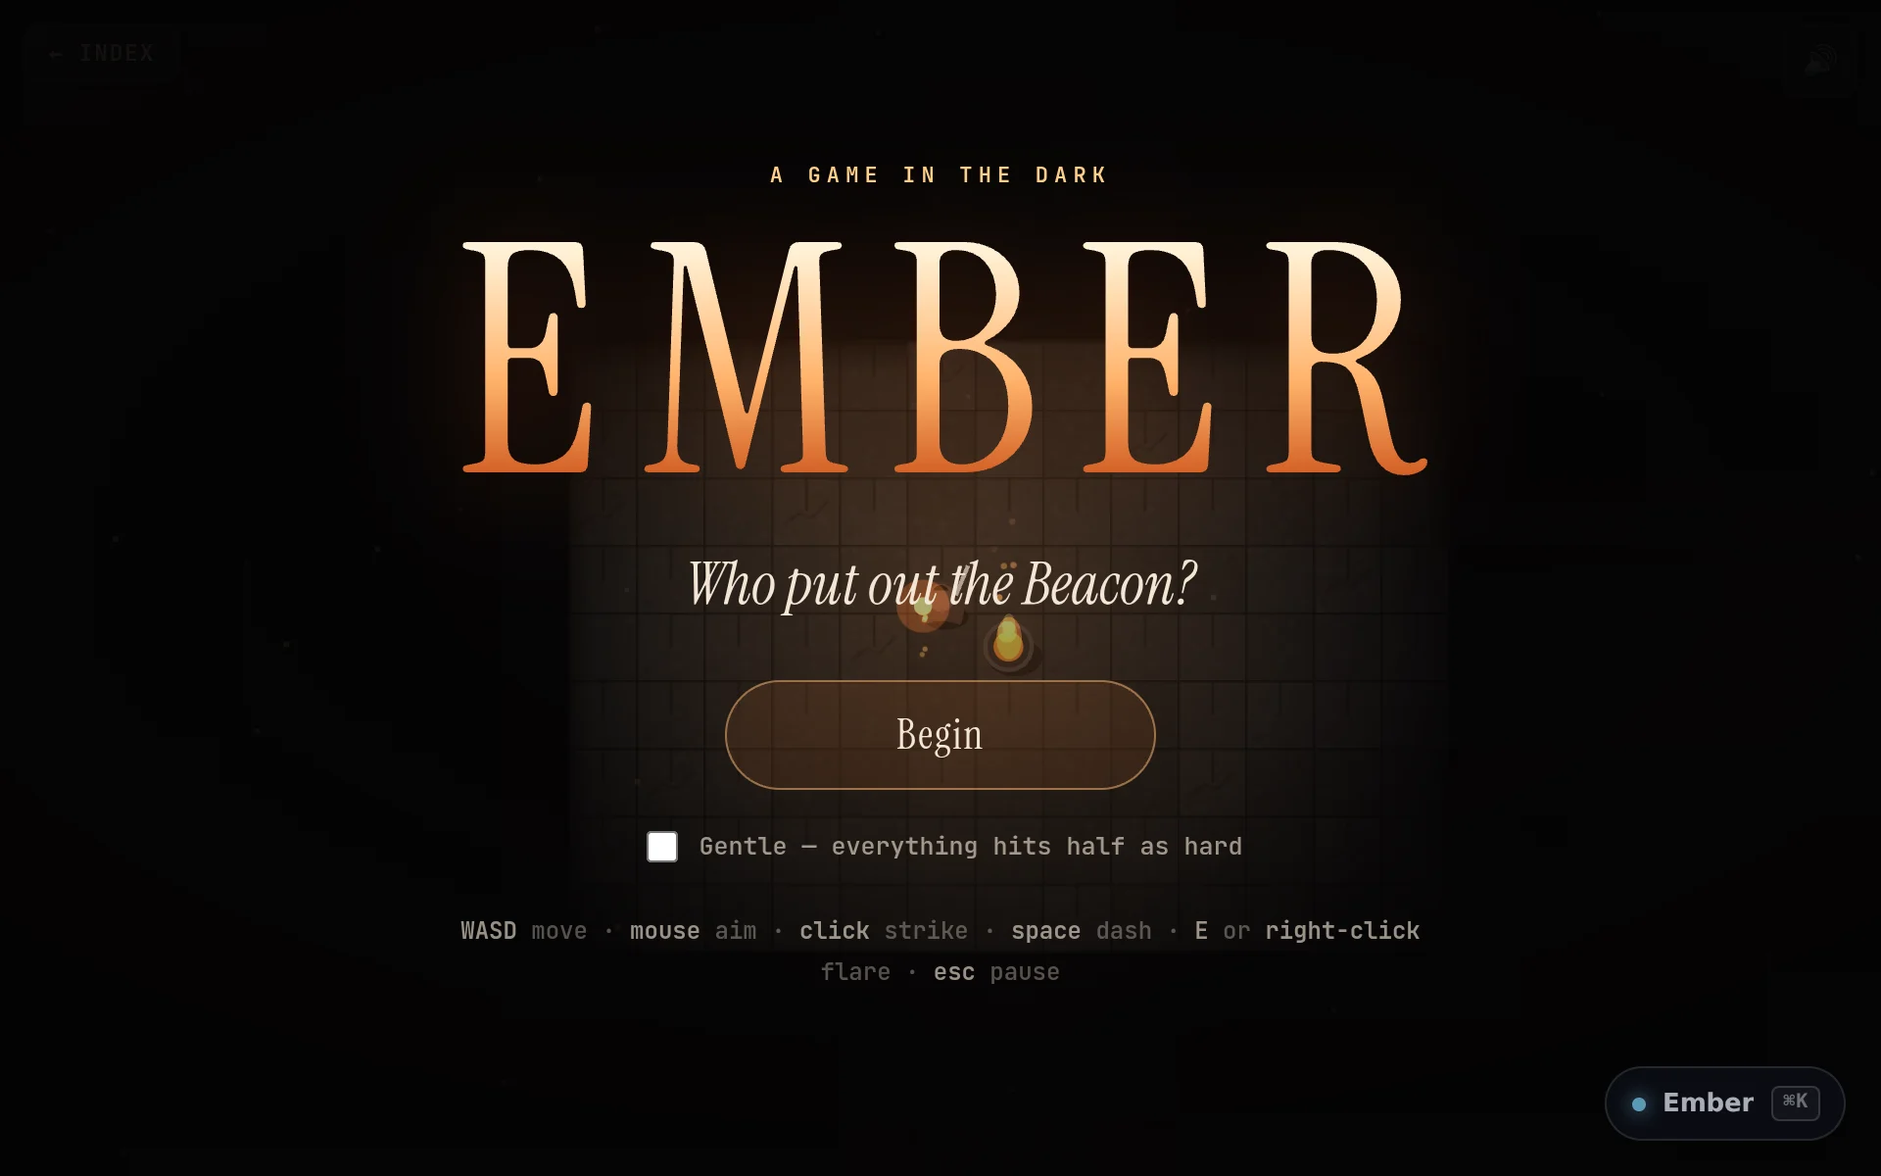
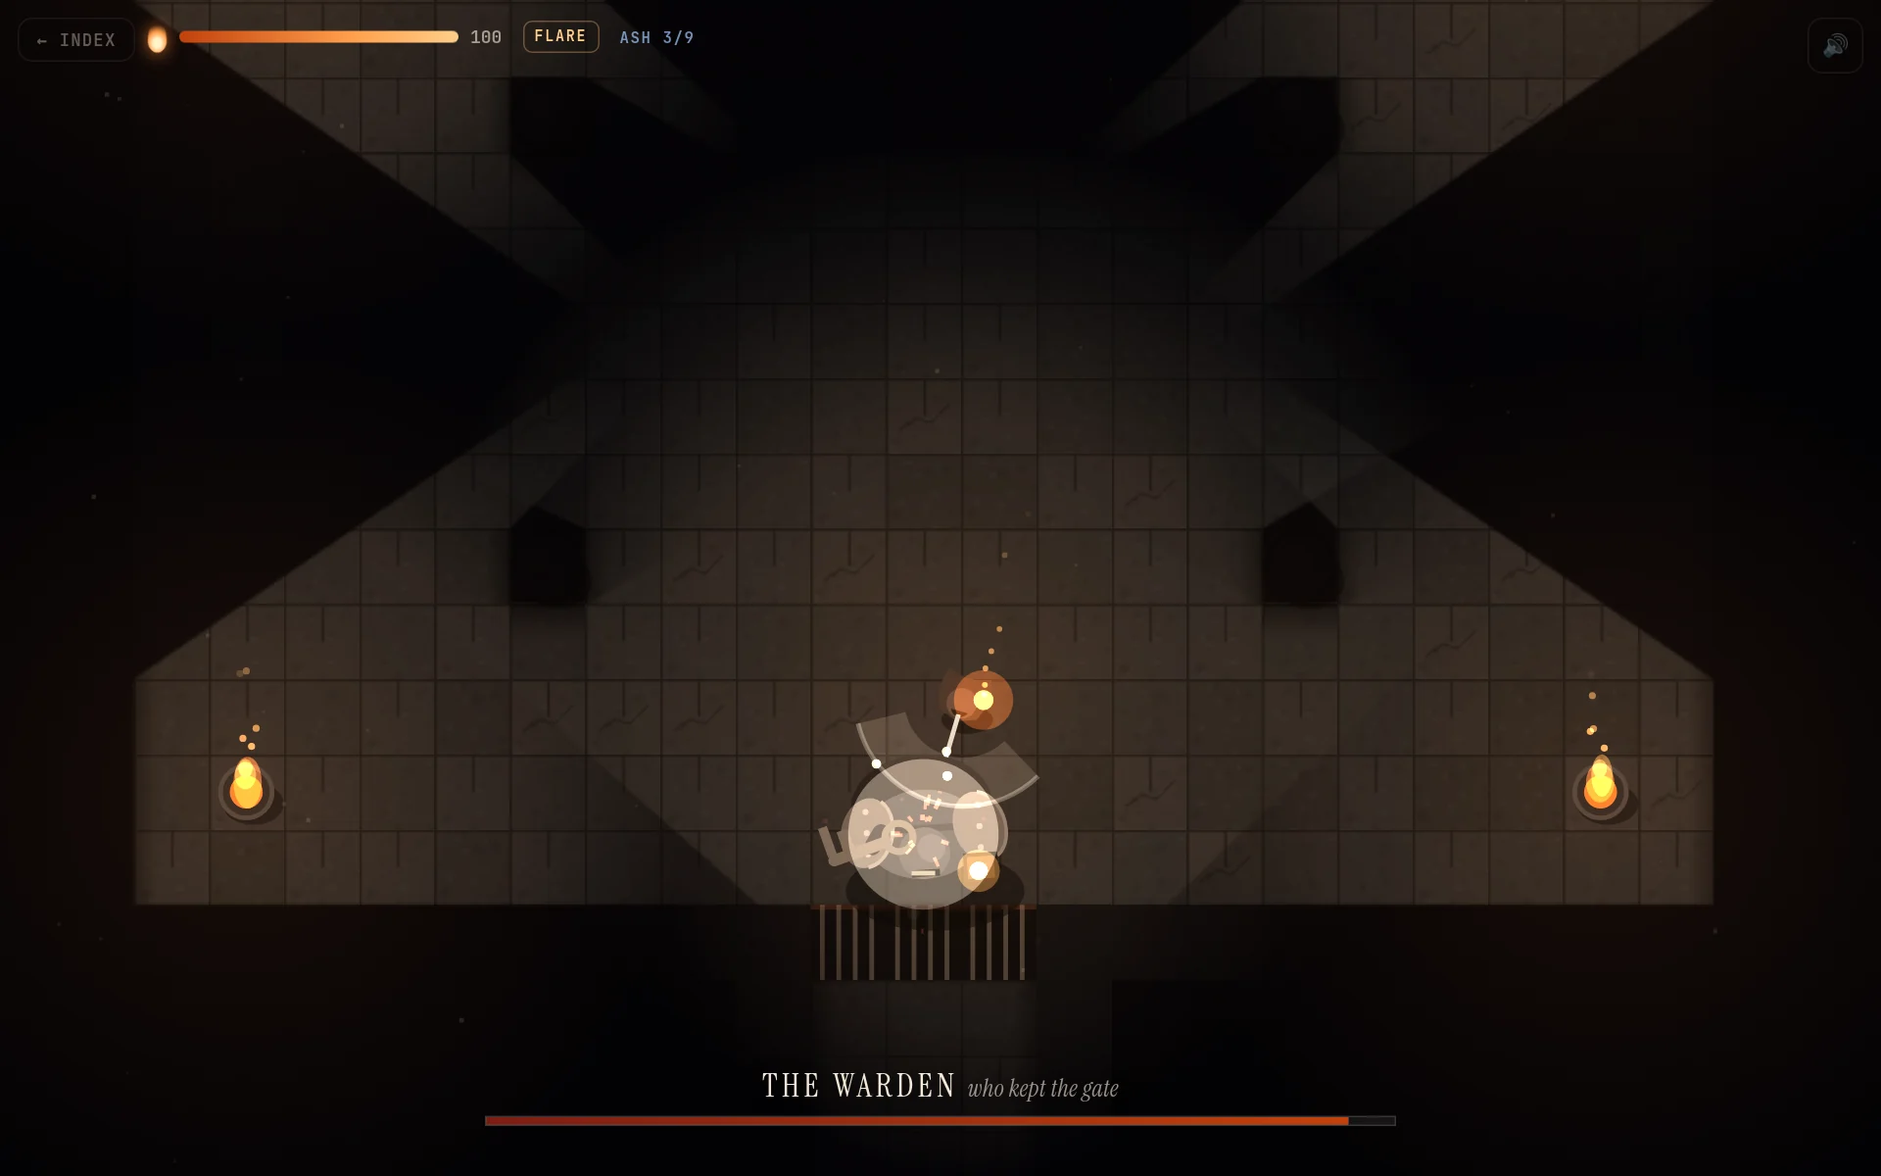
Put the games straight after the places, led by Ember
The front page gets a Games section right after the two case studies,
lit like Ember itself: Ember as a full case study, with how its light,
maps, bosses and fairness tests work, then Minesweeper, Sudoku and
Tether. The playground moves Games & apps up to section 1, right after
the plates, and numbers its figures in page order. The games' gallery
screenshots now show them being played rather than their title screens.

A test keeps the games section straight after the work, led by Ember,
and counting every game.

diff --git a/playground.html b/playground.html
@@ -218,7 +218,7 @@
   button.quiet-link { background: none; border: 0; border-bottom: 1px solid var(--rule-2); cursor: pointer; padding: 0 0 2px; }
   #surprise .face { min-width: 17ch; text-align: left; }
 
-  /* ── §1, the four products ──────────────────────────────────────────────
+  /* ── §2, the four products ──────────────────────────────────────────────
      Each one opens on the sentence a client would actually say, then a
      small picture of the thing working, set in the app's own type, then what
      it does in plain English and what was measured. A recruiter should get
@@ -739,9 +739,9 @@
   <nav class="top" aria-label="Sections">
     <a class="brand" href="#top">Playground</a>
     <a class="keep" href="./">&larr; Front page</a>
-    <a href="#work"><span class="sec">&sect;1</span>AI products</a>
-    <a href="#stories"><span class="sec">&sect;2</span>Check these out</a>
-    <a href="#run"><span class="sec">&sect;3</span>Games &amp; apps</a>
+    <a href="#run"><span class="sec">&sect;1</span>Games &amp; apps</a>
+    <a href="#work"><span class="sec">&sect;2</span>AI products</a>
+    <a href="#stories"><span class="sec">&sect;3</span>Check these out</a>
     <a href="#ml"><span class="sec">&sect;4</span>The models</a>
     <a href="#deep"><span class="sec">&sect;5</span>Engineering</a>
     <a class="keep" href="#errata">Errata</a>
@@ -790,7 +790,7 @@
 
   <div class="foot" aria-hidden="true">
     <span class="bar"><i style="background:#00a3e0"></i><i style="background:#e5007e"></i><i style="background:#ffe600"></i><i style="background:#17140f"></i><i style="background:#17140f;opacity:.6"></i><i style="background:#17140f;opacity:.3"></i><i style="background:#cf2e1b"></i></span>
-    <a class="cue" href="#work" tabindex="-1">The four products, then thirty more to play with &darr;</a>
+    <a class="cue" href="#run" tabindex="-1">Thirty pieces to play with, and the four products &darr;</a>
     <span>p. i</span>
   </div>
 </header>
@@ -871,12 +871,28 @@
     </div>
   </aside>
 
-  <!-- ── §1 AI products ──────────────────────────────────────────────────────
+  <!-- ── §1 games and apps ─────────────────────────────────────────────────
+       Straight after the plates: Ember first, then the other games, then the
+       small apps. -->
+  <section class="section" id="run">
+    <header>
+      <div class="runhead"><span class="no">&sect; 1</span><span>Games &amp; apps</span><span class="nm">seventeen figures</span></div>
+      <h2>Things to put your <em>hands on</em></h2>
+      <p class="lede">
+        Games first, starting with the long one, then small apps you would actually use, then
+        physics you can put your finger in and one horror story. <b>After Ember, nothing here has
+        a menu or a tutorial</b>: the first ten seconds teach you the rest.
+      </p>
+    </header>
+    <div class="figs" id="toys" style="--min:330px"></div>
+  </section>
+
+  <!-- ── §2 AI products ──────────────────────────────────────────────────────
        The four products. Each one opens on the sentence a client would say,
        because that is where every real project starts. -->
   <section class="section" id="work" style="--accent: 207,46,27">
     <header>
-      <div class="runhead"><span class="no">&sect; 1</span><span>AI products</span><span class="nm">four products</span></div>
+      <div class="runhead"><span class="no">&sect; 2</span><span>AI products</span><span class="nm">four products</span></div>
       <h2>Four things a business <em>might need</em></h2>
       <p class="lede">
         Each one starts from a sentence somebody at work might say, and ends as working software &mdash;
@@ -989,8 +1005,8 @@
     </div>
   </section>
 
-  <!-- ── fig. 1 ──────────────────────────────────────────────────────────────
-       The contact sheet. Built by script from the atlas, so it can never list
+  <!-- ── the contact sheet ───────────────────────────────────────────────────
+       Everything that is not a product. Built by script from the atlas, so it can never list
        something the navigator does not. -->
   <figure class="fig1" id="sheet">
     <div class="sheet" id="film">
@@ -998,7 +1014,7 @@
       <svg class="grease" id="grease" aria-hidden="true"></svg>
     </div>
     <figcaption>
-      <span class="fn">Fig. 1</span>
+      <span class="fn" data-fig>Fig. 1</span>
       <span>Contact sheet. Thirty more things I built for fun and to learn, every one of them running
       &mdash; games along the top, the engineering at the bottom, my picks in grease pencil, and
       <b id="liveCount">&hellip;</b> of them running as you read this.
@@ -1006,10 +1022,10 @@
     </figcaption>
   </figure>
 
-  <!-- ── §2 stories ──────────────────────────────────────────────────────── -->
+  <!-- ── §3 stories ──────────────────────────────────────────────────────── -->
   <section class="section" id="stories" style="--accent: 255,209,102">
     <header>
-      <div class="runhead"><span class="no">&sect; 2</span><span>Check these out</span><span class="nm">two figures</span></div>
+      <div class="runhead"><span class="no">&sect; 3</span><span>Check these out</span><span class="nm">two figures</span></div>
       <h2>Two to get <em>lost in</em></h2>
       <p class="lede">
         Off the clock: a murder you solve by looking at things, and a short story drawn from
@@ -1044,20 +1060,6 @@
         </div>
       </a>
     </div>
-  </section>
-
-  <!-- ── §3 games and apps ───────────────────────────────────────────────── -->
-  <section class="section" id="run">
-    <header>
-      <div class="runhead"><span class="no">&sect; 3</span><span>Games &amp; apps</span><span class="nm">seventeen figures</span></div>
-      <h2>Things to put your <em>hands on</em></h2>
-      <p class="lede">
-        Games first, starting with the long one, then small apps you would actually use, then
-        physics you can put your finger in and one horror story. <b>After Ember, nothing here has
-        a menu or a tutorial</b>: the first ten seconds teach you the rest.
-      </p>
-    </header>
-    <div class="figs" id="toys" style="--min:330px"></div>
   </section>
 
   <!-- ── §4 inside the models ────────────────────────────────────────────── -->
@@ -1217,7 +1219,7 @@
       <li class="reveal">
         <span class="en">E3</span>
         <div>
-          <p class="where"><a href="play/sandbox/index.html">Sandbox</a> &middot; &sect;3</p>
+          <p class="where"><a href="play/sandbox/index.html">Sandbox</a> &middot; &sect;1</p>
           <p class="for"><i>For</i> <s>an hourglass</s> <i>read</i> <ins>an X</ins></p>
           <p class="why">It leaked sand out of its sides, because it had been drawn as two crossed lines rather than a funnel.</p>
           <p class="how">Caught by <b>looking at it</b></p>
@@ -1226,7 +1228,7 @@
       <li class="reveal" style="--d:70ms">
         <span class="en">E4</span>
         <div>
-          <p class="where"><a href="play/sandbox/index.html">Sandbox</a> &middot; &sect;3</p>
+          <p class="where"><a href="play/sandbox/index.html">Sandbox</a> &middot; &sect;1</p>
           <p class="for"><i>For</i> <s>a forest fire</s> <i>read</i> <ins>one tree</ins></p>
           <p class="why">It burned one tree and went out. The match had been lit on an isolated tree at the edge of the map.</p>
           <p class="how">Caught by <b>looking at it</b></p>
@@ -1235,7 +1237,7 @@
       <li class="reveal">
         <span class="en">E5</span>
         <div>
-          <p class="where"><a href="play/island/index.html">Islandsmith</a> &middot; &sect;3</p>
+          <p class="where"><a href="play/island/index.html">Islandsmith</a> &middot; &sect;1</p>
           <p class="for"><i>For</i> <s>a new island</s> <i>read</i> <ins>a smooth green ellipse</ins></p>
           <p class="why">Every one of them. The noise frequency was so low that the entire map sat inside a single noise cell.</p>
           <p class="how">Caught by <b>looking at it</b></p>
@@ -1262,7 +1264,7 @@
       <li class="reveal" style="--d:70ms">
         <span class="en">E8</span>
         <div>
-          <p class="where"><a href="apps/qr/index.html">QR codes</a> &middot; &sect;3</p>
+          <p class="where"><a href="apps/qr/index.html">QR codes</a> &middot; &sect;1</p>
           <p class="for"><i>For</i> <s>a bug in the encoder</s> <i>read</i> <ins>a bug in the test</ins></p>
           <p class="why">Two checks failed: a capacity of 666 and a format word, both typed from memory. The encoder said 669 and a different word; an independent QR reader had already decoded fifty-six of its codes without a fault. The test was wrong, and was corrected against the published table.</p>
           <p class="how">Caught by <b>not assuming the test is the one that is right</b></p>
@@ -1374,7 +1376,7 @@ const SERIF = '"Instrument Serif", Georgia, serif';
    back was "put the games at the top".
 
    The Room and The Lamplighter are not in this list: they are the two panes
-   of §2. Putting them here as well would be the same thing twice. */
+   of §3. Putting them here as well would be the same thing twice. */
 const TOYS = [
   {
     href: 'play/ember/index.html', tag: 'the epic one', kind: 'game', wide: true,
@@ -1996,9 +1998,9 @@ mount(document.getElementById('mlEvals'), evalsPreview);
 mount(document.getElementById('mlAgents'), agentsPreview);
 
 /* Figures are numbered in the order they are set, the way a book numbers
-   them — the contact sheet is Fig. 1 and everything after counts on from it,
-   so moving a figure renumbers the lot instead of leaving a gap. */
-document.querySelectorAll('[data-fig]').forEach((el, i) => { el.textContent = `Fig. ${i + 2}`; });
+   them, so moving a figure renumbers the lot instead of leaving a gap. The
+   games come first now, so the contact sheet is numbered where it falls. */
+document.querySelectorAll('[data-fig]').forEach((el, i) => { el.textContent = `Fig. ${i + 1}`; });
 
 for (const el of document.querySelectorAll('.section > header')) el.classList.add('reveal');
 watchReveals();

diff --git a/index.html b/index.html
@@ -148,6 +148,18 @@
   .tile .label { margin-top: auto; padding-top: 6px; }
   .more { margin: 30px 0 0; display: flex; flex-wrap: wrap; gap: 10px 26px; }
   .more a { font-weight: 560; text-underline-offset: 4px; }
+  /* ── games ───────────────────────────────────────────────── */
+  /* Lit like Ember: the page goes dark here, and the one warm colour is the flame. */
+  .games {
+    --paper: #0e0b09; --card: #17120f; --ink: #f3ebe1; --soft: #cdbfae; --mute: #a8998a;
+    --rule: #2d2620; --rule-strong: #4a4037; --wash: #1e1814; --accent: #f2a65a; --accent-ink: #1b1007;
+    --shadow: 0 1px 2px rgba(0, 0, 0, .6), 0 30px 70px -28px rgba(242, 166, 90, .28);
+    background: radial-gradient(120% 70% at 22% 0%, #1f1610 0%, var(--paper) 60%); color: var(--ink);
+    border-top: 0; color-scheme: dark;
+  }
+  .games + section { border-top: 0; }
+  .games .shot { box-shadow: 0 0 0 1px var(--rule), var(--shadow); }
+  .games .grid { margin-top: clamp(48px, 7vw, 80px); }
 
   /* ── writing ─────────────────────────────────────────────── */
   .posts { display: grid; grid-template-columns: repeat(auto-fill, minmax(min(100%, 300px), 1fr)); gap: 22px; }
@@ -218,6 +230,7 @@
     <a class="mark" href="./">Mohamed Sucule</a>
     <nav aria-label="Main">
       <a href="#work">Work</a>
+      <a href="#games">Games</a>
       <a href="#writing">Writing</a>
       <a href="#experience">Experience</a>
       <a href="#contact">Contact</a>
@@ -321,11 +334,59 @@
     </div>
   </section>
 
+  <section id="games" class="games" aria-labelledby="games-title">
+    <div class="wrap">
+      <p class="label">Games</p>
+      <h2 id="games-title">Games made of nothing but code</h2>
+      <p class="intro">Eight games run on this site with no engine, no image files and no sound files. Every sprite, shadow and note is made in the browser as you play. Each game has its own tests, and the hardest are played to the end by a program before you see them.</p>
+
+      <article class="case" aria-labelledby="ember-title">
+        <a class="shot" href="play/ember/index.html" tabindex="-1" aria-hidden="true"><img src="atlas/shots/ember-960.webp" srcset="atlas/shots/ember-960.webp 960w, atlas/shots/ember-1920.webp 1920w" sizes="(min-width: 900px) 460px, 92vw" width="960" height="600" alt="" loading="lazy" decoding="async" /></a>
+        <div>
+          <p class="label">Canvas 2D · Web Audio · Generator functions · Gamepad &amp; touch</p>
+          <h3 id="ember-title">Ember</h3>
+          <p class="line">An action game in the dark, where your flame is your light and your life.</p>
+          <ul class="hard">
+            <li>The light is geometry, not a picture: rays go from the flame to every wall corner in reach, and the shape they make is cut out of the dark on every frame, so shadows swing as you move.</li>
+            <li>Every run is a new map: a tree of rooms grown on a 5 × 4 grid, with the boss in the deepest dead end. The three bosses are generator functions, so an attack reads like a script: draw the circle, wait 0.8 s, land it.</li>
+            <li>Fair by construction: the tests play the whole game and fail if any blow lands less than 0.3 s after it was first shown. An autopilot plays from the first room to the ending on every seed.</li>
+          </ul>
+          <div class="proof">
+            <div><b>0.38 s</b><span>the least warning any attack gives, against a rule of 0.3</span></div>
+            <div><b>40</b><span>generated maps checked, every room reachable</span></div>
+            <div><b>20</b><span>tests, with an autopilot that plays to the ending</span></div>
+          </div>
+          <div class="links">
+            <a class="go" href="play/ember/index.html">Play Ember</a>
+            <a href="https://github.com/Mohamed-Sucule/Projects/tree/main/play/ember#readme">How it works</a>
+            <a href="https://github.com/Mohamed-Sucule/Projects/tree/main/play/ember">Source</a>
+          </div>
+        </div>
+      </article>
+
+      <div class="grid">
+        <a class="tile" href="play/sweeper/index.html">
+          <img src="atlas/shots/sweeper-960.webp" width="960" height="600" alt="" loading="lazy" decoding="async" />
+          <div><h3>Minesweeper</h3><p>Every board is played by a solver before you see it and thrown away if it needs a guess. A hint rings the square it can prove safe, and says why.</p><span class="label">Constraint solving · Keyboard play</span></div>
+        </a>
+        <a class="tile" href="play/sudoku/index.html">
+          <img src="atlas/shots/sudoku-960.webp" width="960" height="600" alt="" loading="lazy" decoding="async" />
+          <div><h3>Sudoku</h3><p>A daily puzzle with exactly one answer and a path to it without guessing. The hint names the technique and shows where it applies.</p><span class="label">Bitmask search · Daily seed</span></div>
+        </a>
+        <a class="tile" href="play/tether/index.html">
+          <img src="atlas/shots/tether-960.webp" width="960" height="600" alt="" loading="lazy" decoding="async" />
+          <div><h3>Tether</h3><p>Swing round a planet and tap to let go. You fly off along the tangent, exactly as fast as you were going.</p><span class="label">Orbital physics · One button</span></div>
+        </a>
+      </div>
+      <p class="more"><a href="atlas/#r-games">See all eight games</a></p>
+    </div>
+  </section>
+
   <section aria-labelledby="more-title">
     <div class="wrap">
       <p class="label">More of my work</p>
       <h2 id="more-title">Interfaces for hard problems</h2>
-      <p class="intro"><span data-count="atlas">Thirty-seven</span> projects run on this site, every one in the browser with nothing to install. These six show the range: tools, products, games and sound.</p>
+      <p class="intro"><span data-count="atlas">Thirty-seven</span> projects run on this site, every one in the browser with nothing to install. These six show the range: tools, products, machine learning and sound.</p>
       <div class="grid">
         <a class="tile" href="projects/oklch-studio/index.html">
           <img src="atlas/shots/oklch-studio-960.webp" width="960" height="600" alt="" loading="lazy" decoding="async" />
@@ -343,9 +404,9 @@
           <img src="atlas/shots/frontdesk-960.webp" width="960" height="600" alt="" loading="lazy" decoding="async" />
           <div><h3>Front Desk</h3><p>A phone receptionist that books real tables, with speech recognition running on the visitor's own device.</p><span class="label">In-browser machine learning</span></div>
         </a>
-        <a class="tile" href="play/sweeper/index.html">
-          <img src="atlas/shots/sweeper-960.webp" width="960" height="600" alt="" loading="lazy" decoding="async" />
-          <div><h3>Minesweeper</h3><p>Every board is proven solvable by logic before you see it, so a game never comes down to a coin flip.</p><span class="label">Game · Constraint solving</span></div>
+        <a class="tile" href="projects/diff-forge/index.html">
+          <img src="atlas/shots/diff-forge-960.webp" width="960" height="600" alt="" loading="lazy" decoding="async" />
+          <div><h3>Diff Forge</h3><p>The merge conflict, software's most hated screen, rebuilt as a choice you can actually read.</p><span class="label">Interaction design · Diffing</span></div>
         </a>
         <a class="tile" href="apps/tuner/index.html">
           <img src="atlas/shots/tuner-960.webp" width="960" height="600" alt="" loading="lazy" decoding="async" />

diff --git a/README.md b/README.md
@@ -63,9 +63,12 @@ against facts, from Polaris standing as high as the latitude to real full and ne
 
 ## Everything else
 
-The rest is the playground: four AI products of the kind a business might need, and thirty more things I built
-for fun and to learn, from a Minesweeper that never makes you guess to a transformer trained with an autodiff
-engine written from nothing. None of it needs an install, a sign-up or an API key.
+The rest is the playground. The games come first, led by [**Ember**](play/ember/), an action game in the dark
+whose light is a visibility polygon cast from the flame on every frame, with generated maps, three bosses written
+as generator functions and a score synthesised as you play; its tests play it to the ending and fail if any blow
+lands with less than 0.3 s of warning. Then four AI products of the kind a business might need, and the rest of
+thirty pieces built for fun and to learn, from a Minesweeper that never makes you guess to a transformer trained
+with an autodiff engine written from nothing. None of it needs an install, a sign-up or an API key.
 
 **[Open the playground](https://mohamed-sucule.github.io/Projects/playground.html)** ·
 **[or walk through the gallery](https://mohamed-sucule.github.io/Projects/atlas/)**, the same work as six
